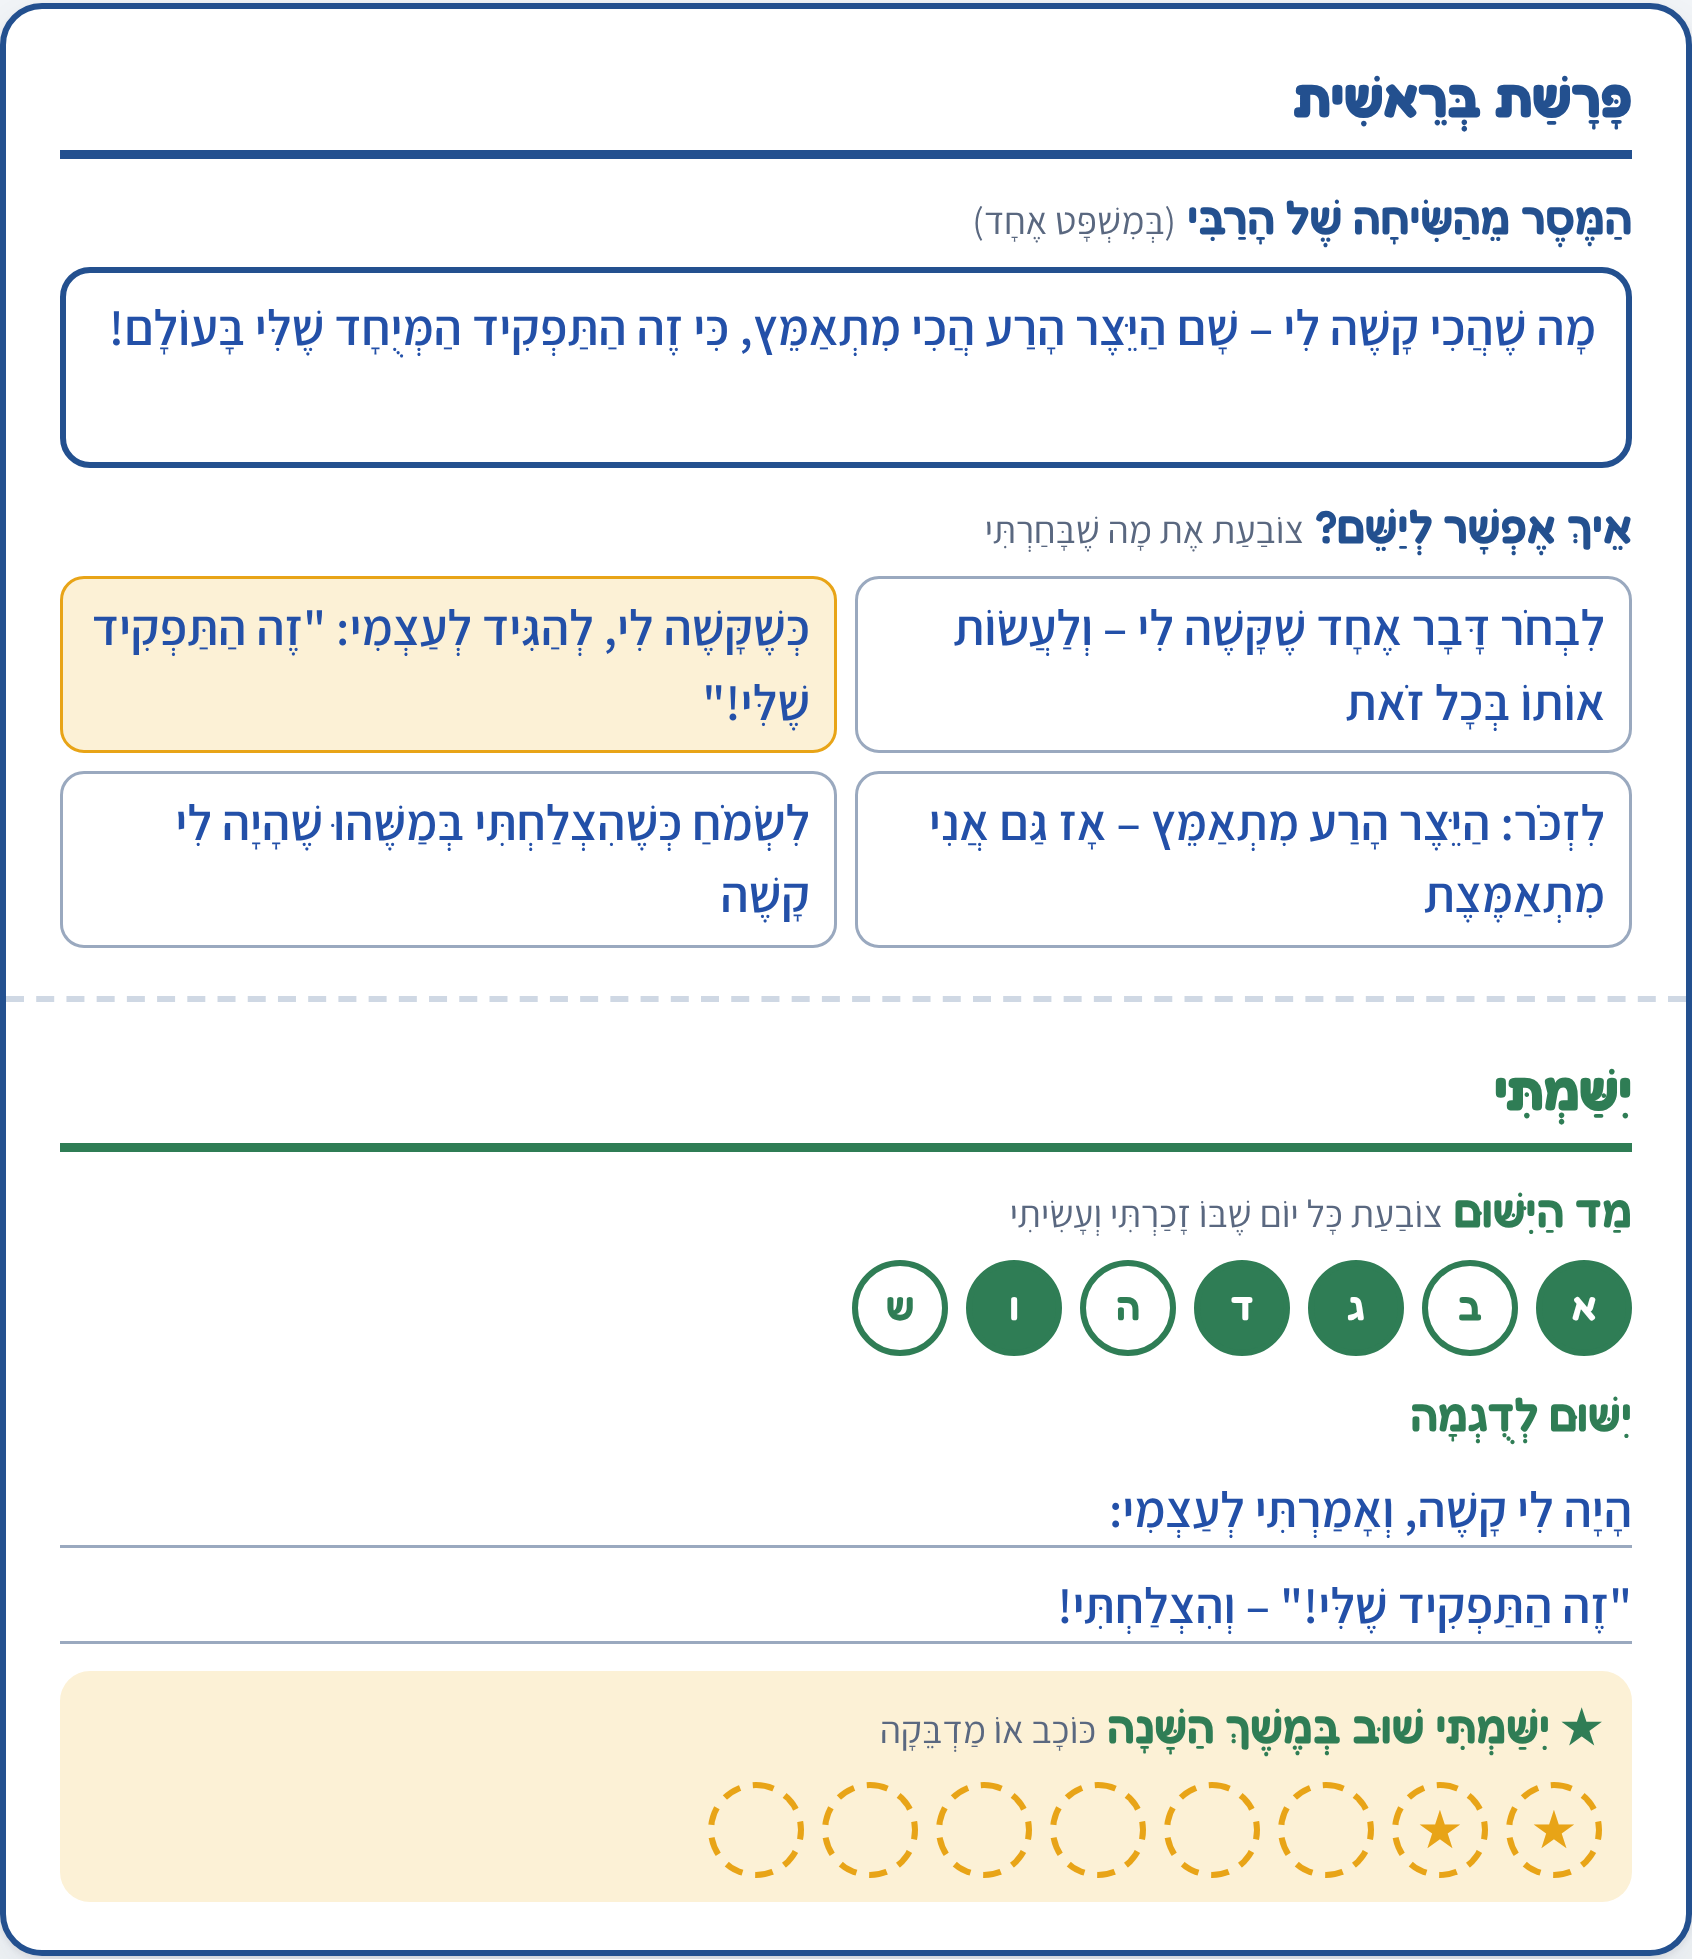
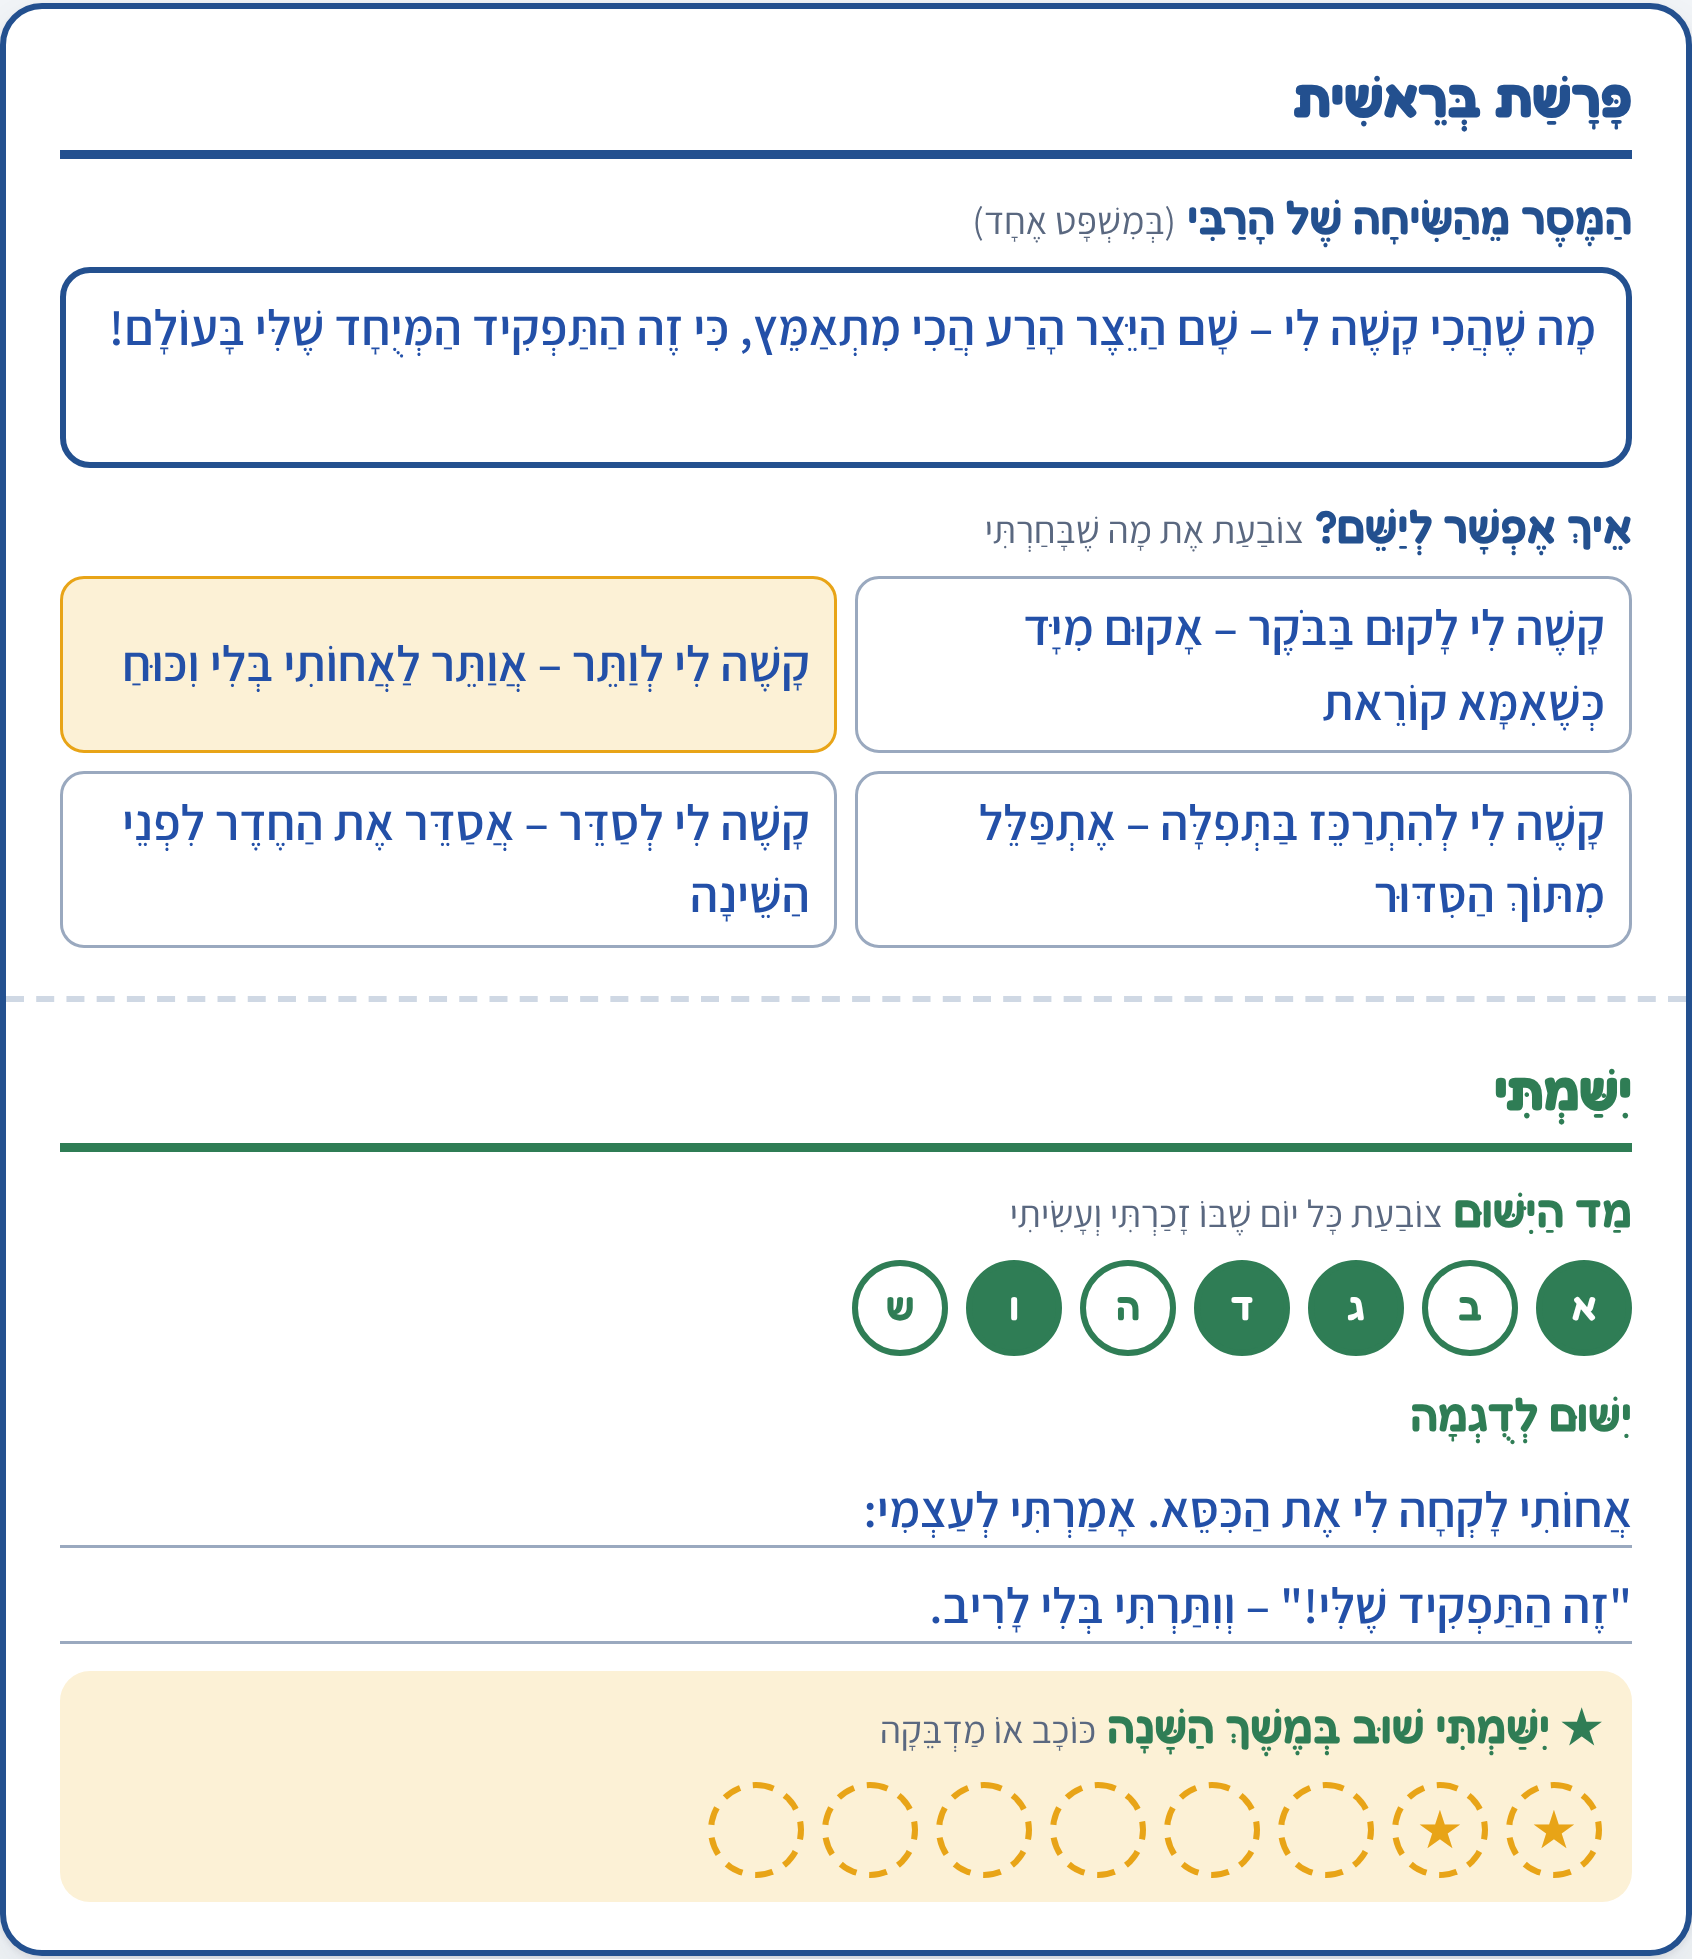
Bereshit example: specific ideas framed as what is hard for me
Claude-Session: https://claude.ai/code/session_01LBWHCosP69fByC23TYrM9j

diff --git a/hora-lachaim/index.html b/hora-lachaim/index.html
@@ -155,11 +155,11 @@ header, section { display: grid; gap: 12px; }
   document.getElementById('example').innerHTML = card({
     parsha: 'בְּרֵאשִׁית',
     msg: 'מָה שֶׁהֲכִי קָשֶׁה לִי – שָׁם הַיֵּצֶר הָרַע הֲכִי מִתְאַמֵּץ, כִּי זֶה הַתַּפְקִיד הַמְּיֻחָד שֶׁלִּי בָּעוֹלָם!',
-    ideas: ['לִבְחֹר דָּבָר אֶחָד שֶׁקָּשֶׁה לִי – וְלַעֲשׂוֹת אוֹתוֹ בְּכָל זֹאת', 'כְּשֶׁקָּשֶׁה לִי, לְהַגִּיד לְעַצְמִי: "זֶה הַתַּפְקִיד שֶׁלִּי!"', 'לִזְכֹּר: הַיֵּצֶר הָרַע מִתְאַמֵּץ – אָז גַּם אֲנִי מִתְאַמֶּצֶת', 'לִשְׂמֹחַ כְּשֶׁהִצְלַחְתִּי בְּמַשֶּׁהוּ שֶׁהָיָה לִי קָשֶׁה'],
+    ideas: ['קָשֶׁה לִי לָקוּם בַּבֹּקֶר – אָקוּם מִיָּד כְּשֶׁאִמָּא קוֹרֵאת', 'קָשֶׁה לִי לְוַתֵּר – אֲוַתֵּר לַאֲחוֹתִי בְּלִי וִכּוּחַ', 'קָשֶׁה לִי לְהִתְרַכֵּז בַּתְּפִלָּה – אֶתְפַּלֵּל מִתּוֹךְ הַסִּדּוּר', 'קָשֶׁה לִי לְסַדֵּר – אֲסַדֵּר אֶת הַחֶדֶר לִפְנֵי הַשֵּׁינָה'],
     chosen: 1,
     days: [0, 2, 3, 5],
-    ex1: 'הָיָה לִי קָשֶׁה, וְאָמַרְתִּי לְעַצְמִי:',
-    ex2: '"זֶה הַתַּפְקִיד שֶׁלִּי!" – וְהִצְלַחְתִּי!',
+    ex1: 'אֲחוֹתִי לָקְחָה לִי אֶת הַכִּסֵּא. אָמַרְתִּי לְעַצְמִי:',
+    ex2: '"זֶה הַתַּפְקִיד שֶׁלִּי!" – וְוִתַּרְתִּי בְּלִי לָרִיב.',
     stars: 2
   });
 
